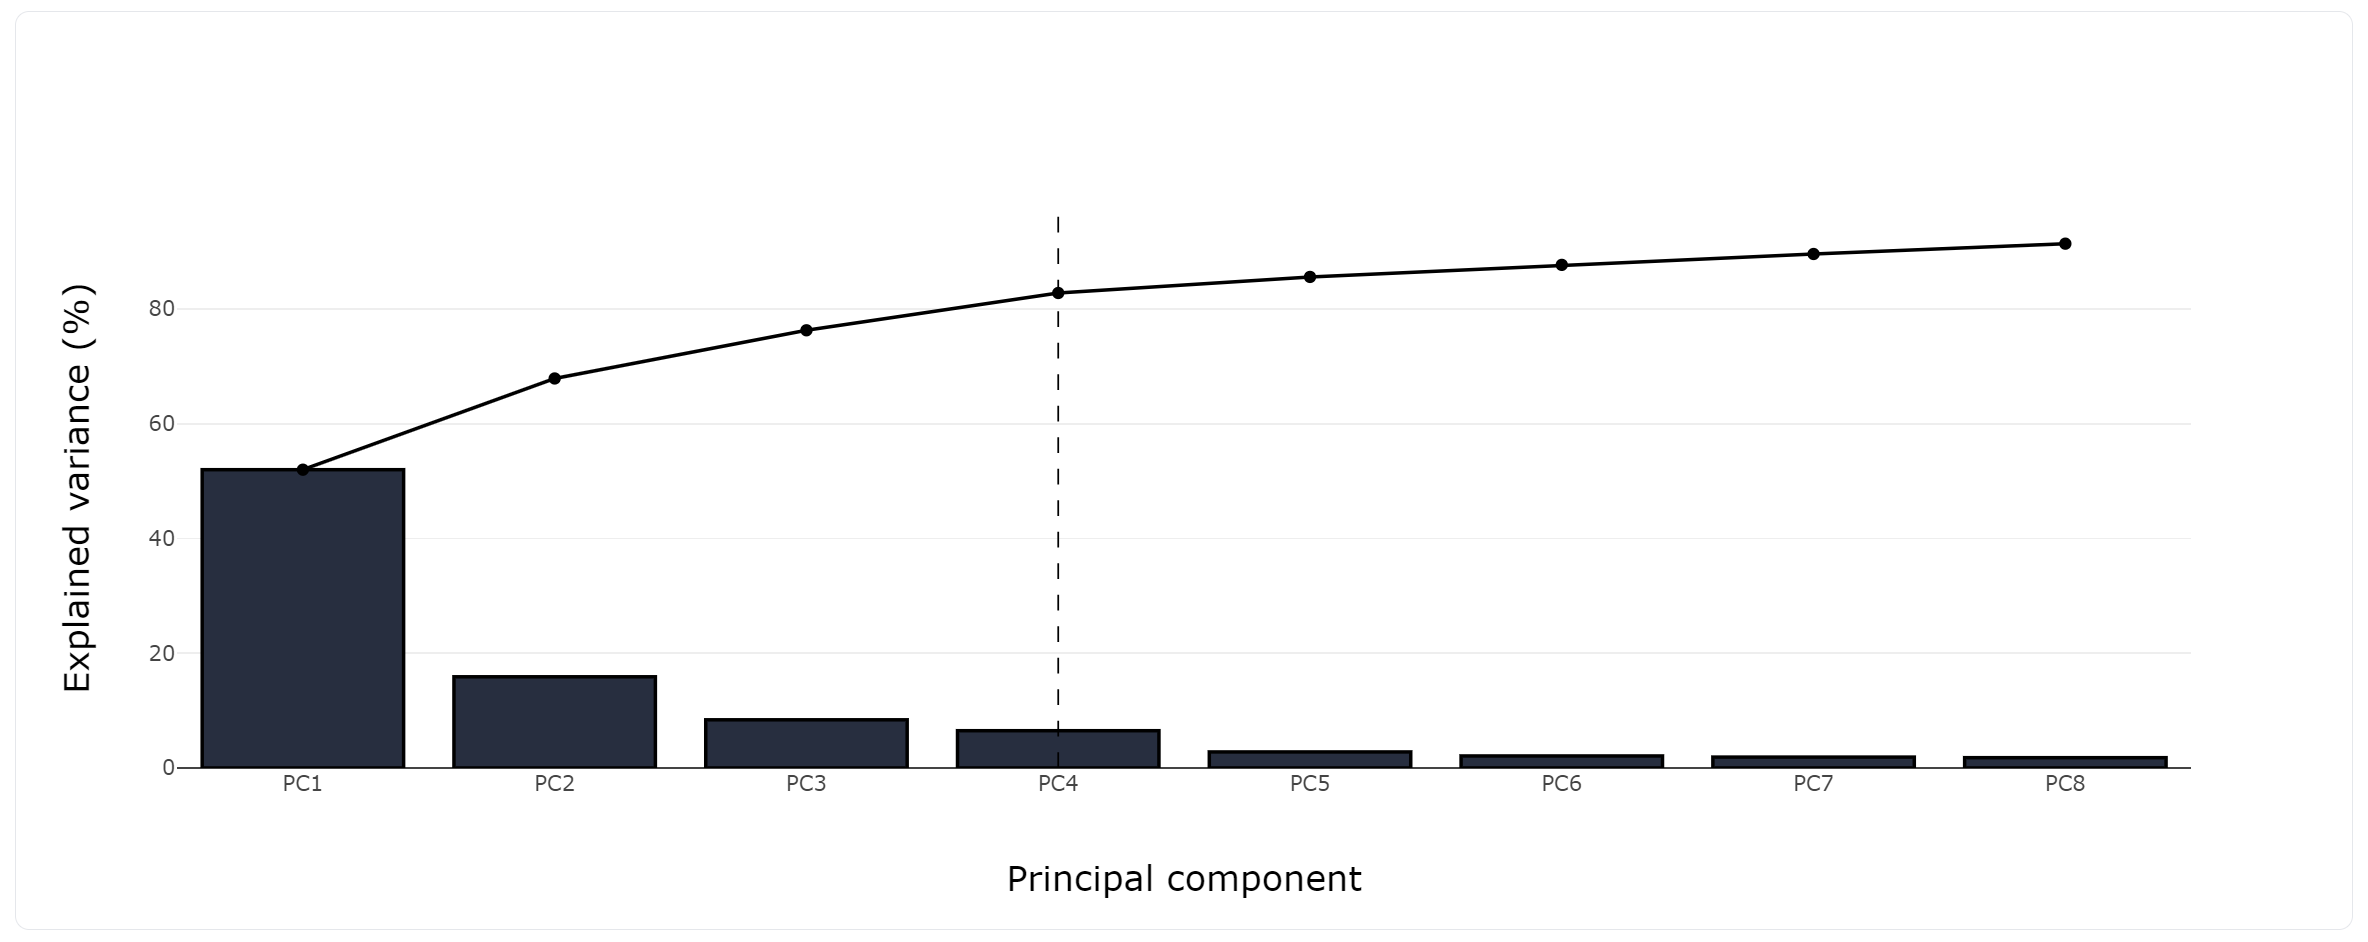
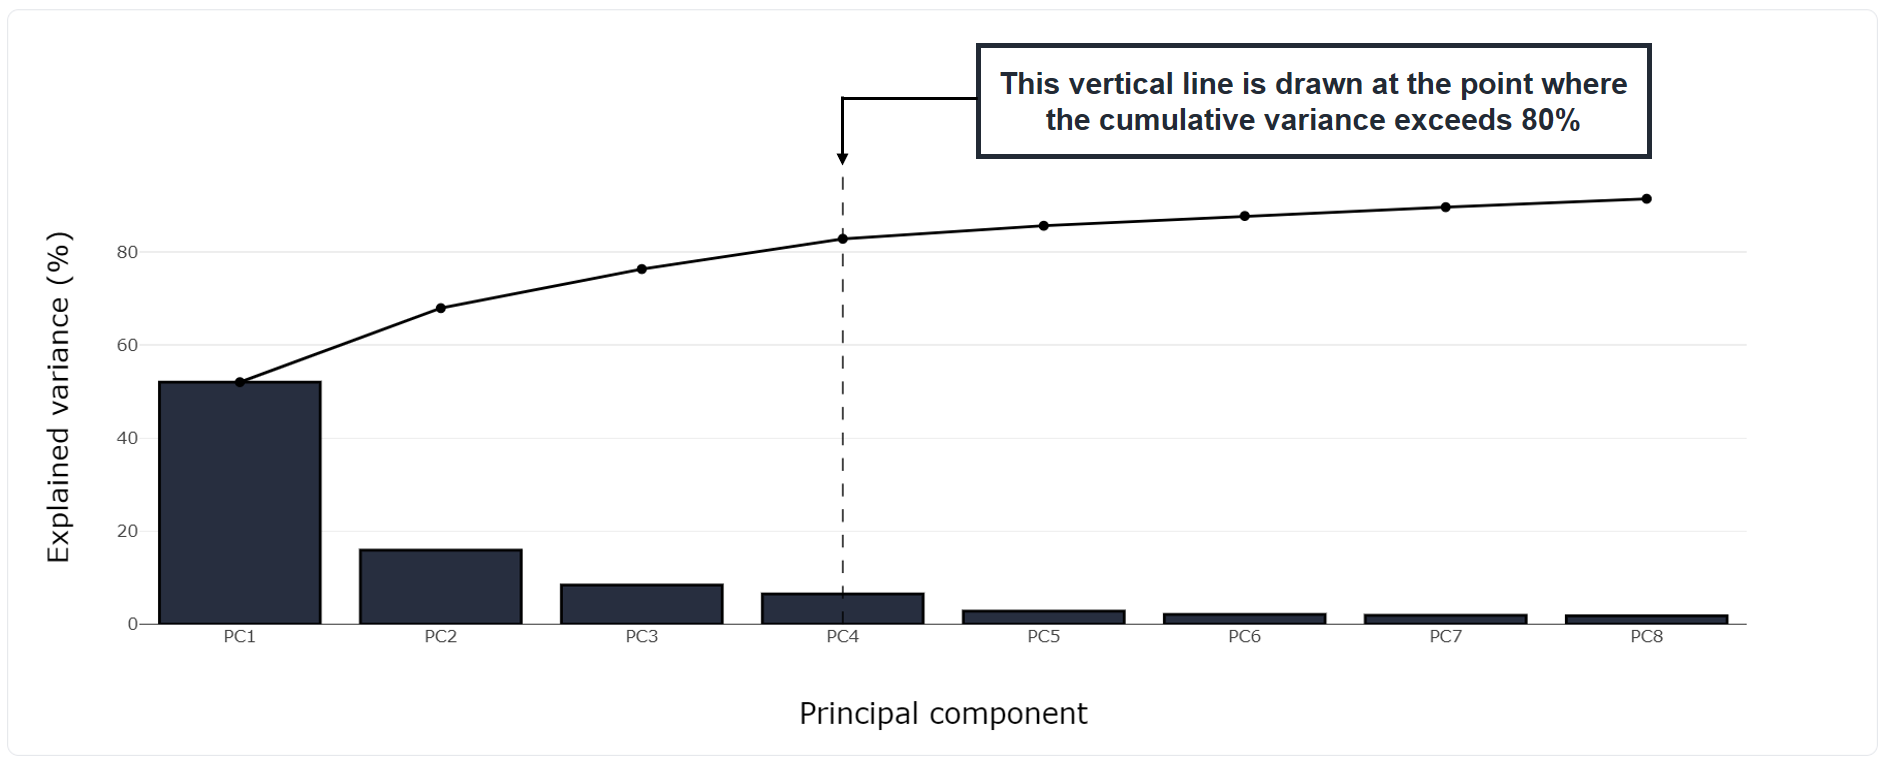
update scree plot documentation

diff --git a/documentation_markdown_files/features.md b/documentation_markdown_files/features.md
@@ -30,6 +30,10 @@
 
 Determine the number of principal components to retain in your analysis. This plot displays the proportion of total variance in the data for each principal component.
 
+In the scree plot, the **vertical line** represents a critical point in the analysis of PCA. This line is typically drawn at the point where the cumulative variance exceeds a certain threshold, in this case, 80%.
+
+The **vertical line** is a visual aid that helps you quickly identify the number of principal components needed to capture a significant amount of the variance in the data. 
+
 ![scree_plot](/documentation_images/md__scree_plot.png)
 
 <p>&nbsp;</p>
